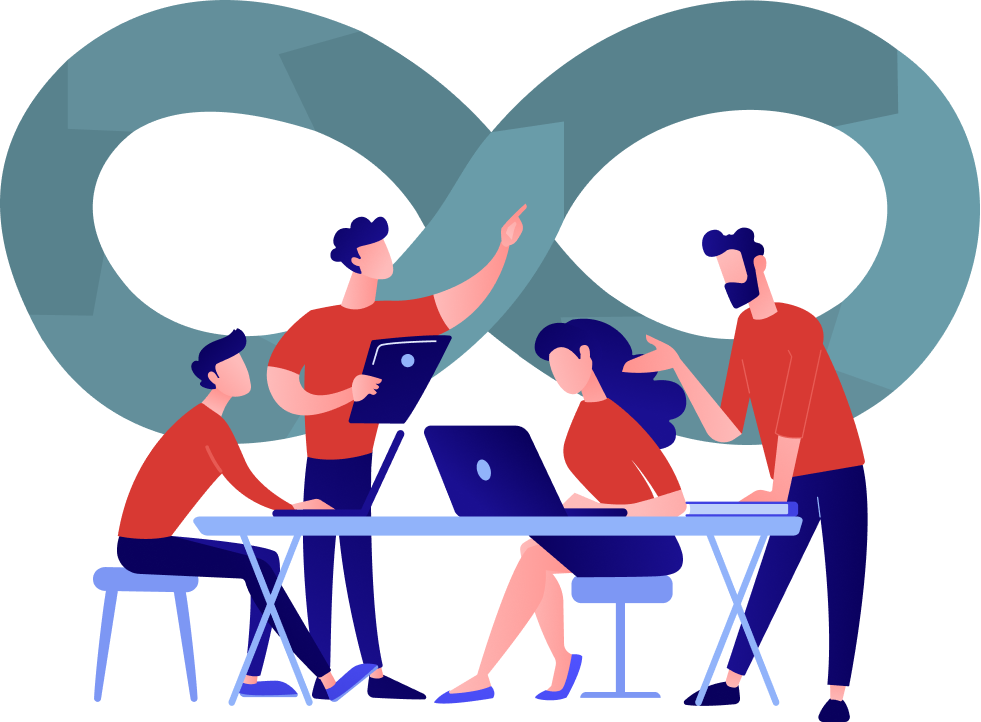
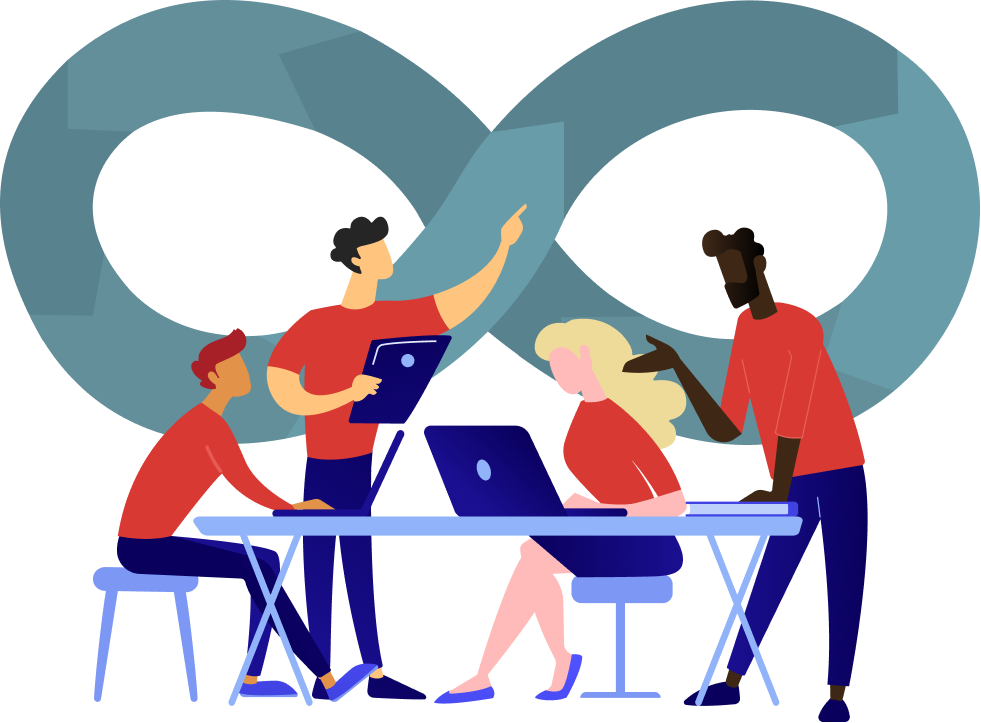
updated images and fixes #75

diff --git a/src/components/home/whatWeDo.js b/src/components/home/whatWeDo.js
@@ -12,12 +12,12 @@ const CaseStudies = () => {
     <section className="py-48 flex items-center justify-center w-full md:my-0 my-16 relative">
       <div className="xl:w-4/5 mx-auto grid lg:grid-cols-2 grid-cols-1">
         <div className="order-2 p-16 pt-0 relative">
-          <div className="tk-blob mx-auto">
+          <div className="tk-blob">
             <svg xmlns="http://www.w3.org/2000/svg" viewBox="0 0 317.5 353.7">
               <path d="M291.8 55.3c30.4 39.9 30.7 102 17 160.4-13.8 58.3-41.6 112.9-84 130.9s-99.3-.6-137-30C50.2 287.1 32 246.9 17 200.5 2.1 154.1-9.6 101.4 11.5 63.6 32.6 25.8 86.6 2.8 143.8.2c57.2-2.6 117.6 15.2 148 55.1z"></path>
             </svg>
           </div>
-          <img src={whatWeDoPng} className="object-contain object-center max-w-full mx-auto absolute -top-5" alt="What we do"/>
+          <img src={whatWeDoPng} className="blobTop max-w-full pb-24" alt="What we do"/>
         </div>
         <div className="flex flex-col justify-center px-10">
           <h2 className={`${TITLE_TEXT} font-bold text-blue-900 flex items-center`}>

diff --git a/src/components/home/whoWeAre.js b/src/components/home/whoWeAre.js
@@ -12,7 +12,7 @@ const WhoWeAre = () => {
       style={{ background: `url(${whoBackground}) fixed no-repeat`, backgroundSize: 'cover' }}
     >
       <div className="xl:w-4/5 mx-auto grid lg:grid-cols-2 grid-cols-1">
-        <div className="px-10 p-16 relative">
+        <div className="px-10 p-16 relative ">
             <div className="tk-blob">
               <svg xmlns="http://www.w3.org/2000/svg" viewBox="0 0 274 303.2">
                 <path d="M260.2 41.4c20 29.2 14.6 74.5 7.2 124.4-7.3 49.9-16.6 104.5-49.2 126-32.5 21.6-88.4 10.2-132-15.2s-75-64.7-83.6-107.8C-6.1 125.7 8 79 36.3 47.8 64.5 16.7 107 1.3 150.9.1c43.9-1.1 89.3 12 109.3 41.3z"></path>
@@ -20,7 +20,7 @@ const WhoWeAre = () => {
             </div>
           <img
             src={whoWeAre}
-            className="absolute top-32"
+            className="blobTop z-10"
             alt="unicorn under magnifying glass"
           />
         </div>

diff --git a/src/styles/global.css b/src/styles/global.css
@@ -217,6 +217,12 @@ body {
   padding-bottom: 30%;
 }
 
+.blobTop{
+  position: absolute;
+  top: 50%;
+  left: 50%;
+  transform: translate(-50%, -50%);
+}
 
 /* Blog Tiles/Blog Page */
 /* h5 {
